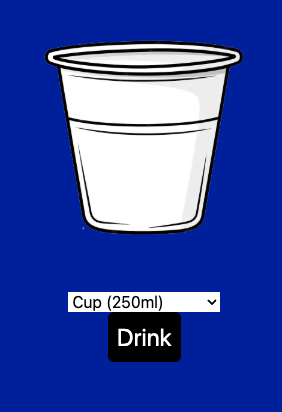
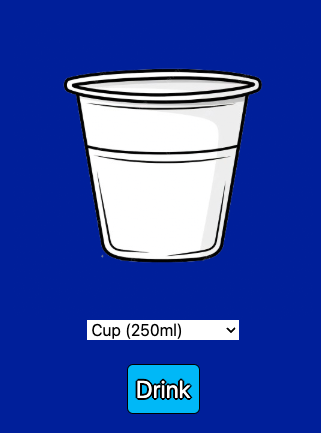
changed button styling

Changed region(s): [[0.1418, 0.0874, 0.8794, 0.6117], [0.227, 0.699, 0.7943, 0.9612]]

diff --git a/components/WaterBottle.jsx b/components/WaterBottle.jsx
@@ -68,7 +68,8 @@ export default function WaterBottle({fill, setFill, multiplier, setMultiplier, s
                 {option=="Custom (Enter ml)" && 
                 <input type="number" placeholder='ml' value={customMl} min="1" max="1000" onChange={(e) => setCustomMl(parseInt(e.target.value))}></input>
                 }
-                <button className="text-2xl text-white border border-black p-2 rounded-md bg-black">Drink</button>
+                <br></br>
+                <button className="text-2xl textShadow text-white border border-black p-2 rounded-md bg-[var(--sky)]">Drink</button>
         </div>
         </form>
     )
